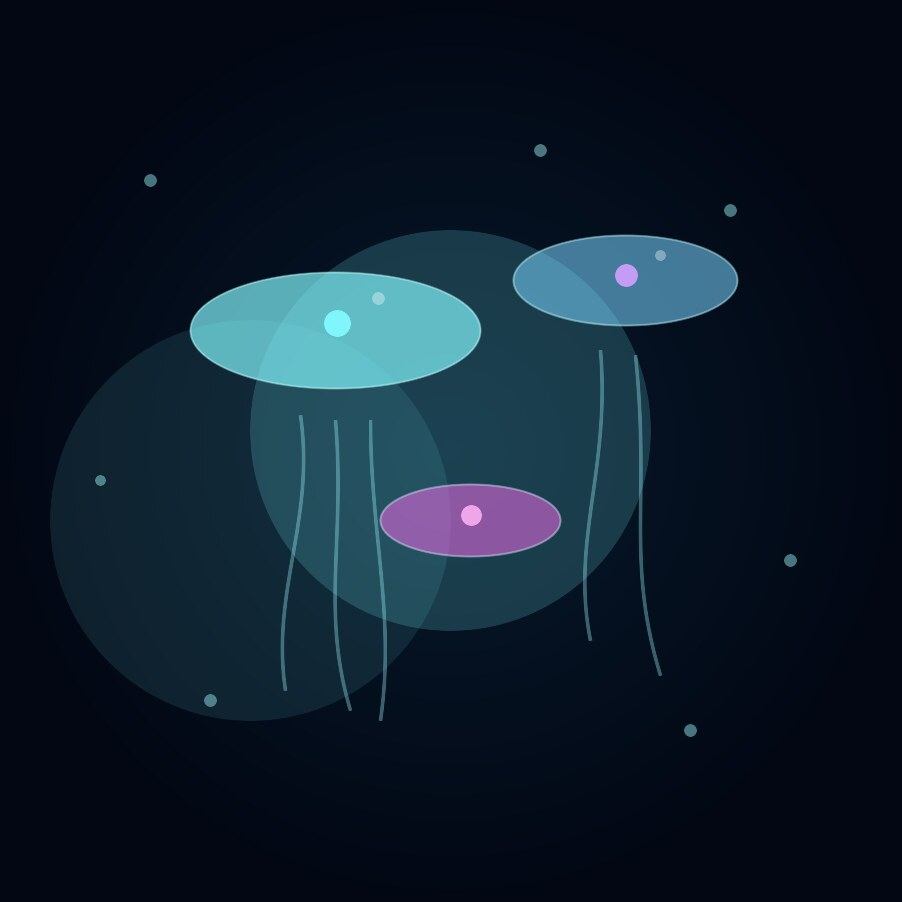
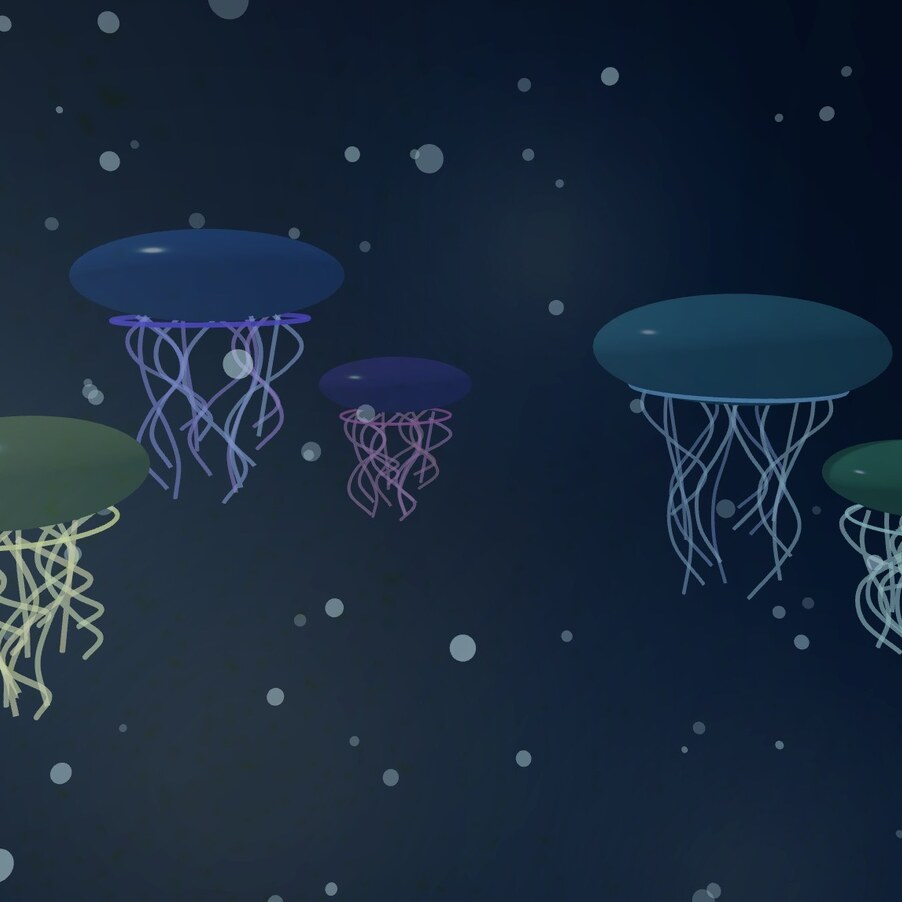
fix: update moon jelly thumbnail and camera

diff --git a/public/page/examples/moonjelly/index.html b/public/page/examples/moonjelly/index.html
@@ -39,7 +39,7 @@
       far: 13,
     });
 
-    camera.position.set(0, 2.5, 6.5);
+    camera.position.set(0, 2.5, -6.5);
     camera.lookAt(0, 0.7, 0);
     controls.connect();
     controls.target.set(0, 0.8, 0);
